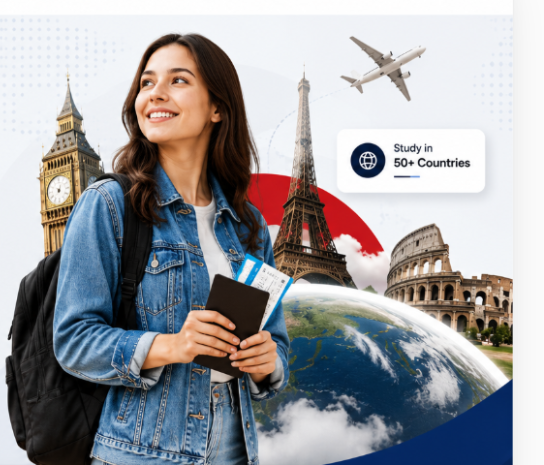
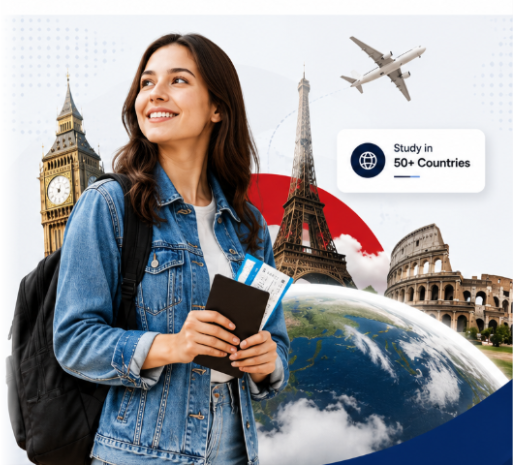
Remove right border from crop and blend left edge seamlessly

diff --git a/resources/views/pages/index.blade.php b/resources/views/pages/index.blade.php
@@ -12,7 +12,7 @@
         <div class="absolute inset-0 z-0 opacity-40 pointer-events-none" style="background-image: radial-gradient(#cbd5e1 2px, transparent 2px); background-size: 24px 24px;"></div>
         
         <!-- Large light blue curved shape behind the image -->
-        <div class="absolute right-0 top-0 w-1/2 h-full bg-[#f0f4f8] rounded-tl-[300px] rounded-bl-[100px] -z-10 transform translate-x-10 -translate-y-10"></div>
+        <div class="absolute right-0 top-0 w-1/2 h-full bg-[#f2f5f8] rounded-tl-[300px] rounded-bl-[100px] -z-10 transform translate-x-10 -translate-y-10"></div>
         
         <div class="container mx-auto px-6 lg:px-12 relative z-10">
             <div class="flex flex-col lg:flex-row items-center gap-8 lg:gap-16">